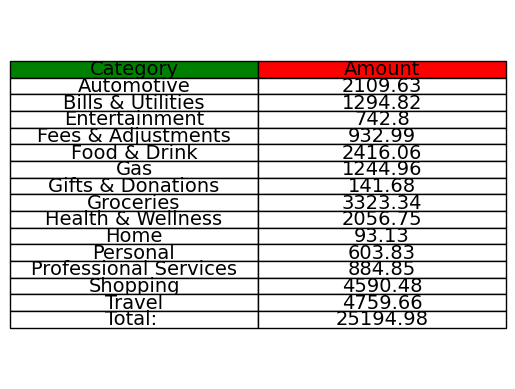
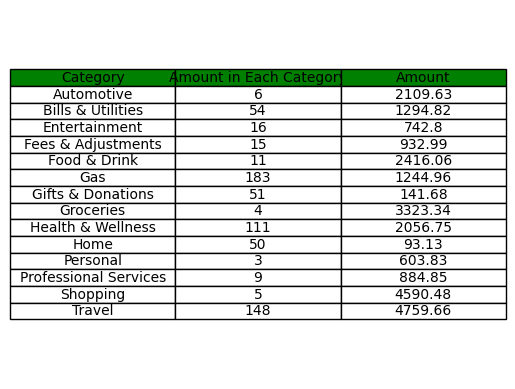
still working on category anaysis

diff --git a/analysis.py b/analysis.py
@@ -82,7 +82,7 @@ def showCategories(conn):
     plt.savefig('graphs/Category/CategoryExpenses_woEdu.png')
     # plt.show()  # Uncomment to display the plot
     
-    # ------------------------ code for pie charts ------------------------
+    # ------------------------ code for tables ------------------------
     totalAmount_Categories = df_categories_woEducation.sum().round(2)
     category_percents = df_categories_woEducation/totalAmount_Categories
     
@@ -101,27 +101,28 @@ def showCategories(conn):
     
     # prepare table
     category_names = df_categories_woEducation.index.tolist()
-    category_values = [round(float(amnt), 2) for amnt in df_categories_woEducation.values.flatten()]
     category_amount_each = df_clean.groupby('Category').size()
+    category_values = [round(float(amnt), 2) for amnt in df_categories_woEducation.values.flatten()]
+    
     # print(df_clean.groupby('Category').size())
 
 
     # create table content with category and amount as columns  
-    table_data = [[cat, numOf amnt] for cat, amnt in zip(category_names, category_amount_each, category_values)]
+    table_data = [[cat, numOf, amnt] for cat, numOf, amnt in zip(category_names, category_amount_each, category_values)]
     
     # add total row 
-    table_data.append(["Total: ", totalAmount_Categories])
+    # table_data.append(["Total: ", totalAmount_Categories])
     
     # create table
     table = ax.table(cellText=table_data, 
-                     colLabels=["Category", "Amount"],
+                     colLabels=["Category", "Amount in Each Category", "Amount"],
                      cellLoc='center',
-                     colColours='green',
+                     colColours=['green', 'green', 'green'],
                      loc='center')
     
     # Adjust layout and font size
     table.auto_set_font_size(False)
-    table.set_fontsize(14)
+    table.set_fontsize(10)
 
     # Make the table dynamic and adjust size based on text
     # table.auto_set_column_width(col=list(range(len(category_percents.columns))))
